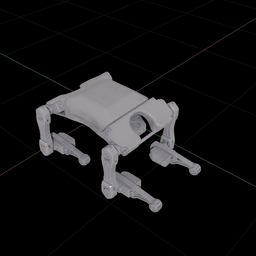
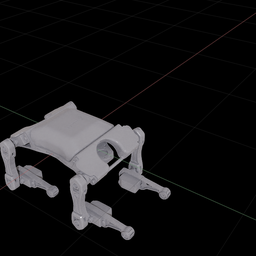
changed usd

diff --git a/test.py b/test.py
@@ -142,7 +142,7 @@ for t_dx in range(len(TIME)):
         if 'Right' in leg_name:
             joint_map=joint_index_map[leg_name]
             joint_positions[joint_map[0]]=-hip_angle[t_dx]
-            joint_positions[joint_map[1]]=knee_angle[t_dx]
+            joint_positions[joint_map[1]]=-knee_angle[t_dx]
             
         else: 
             joint_map=joint_index_map[leg_name]
